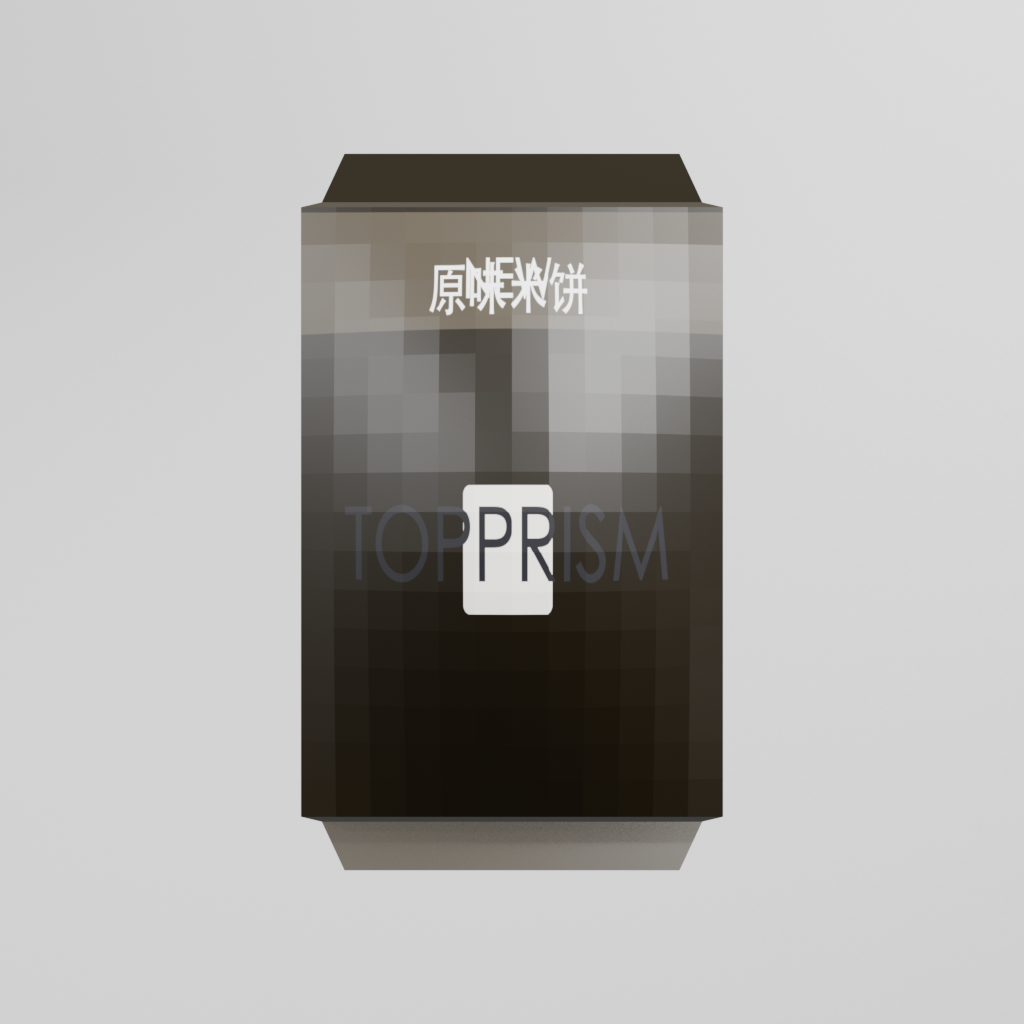
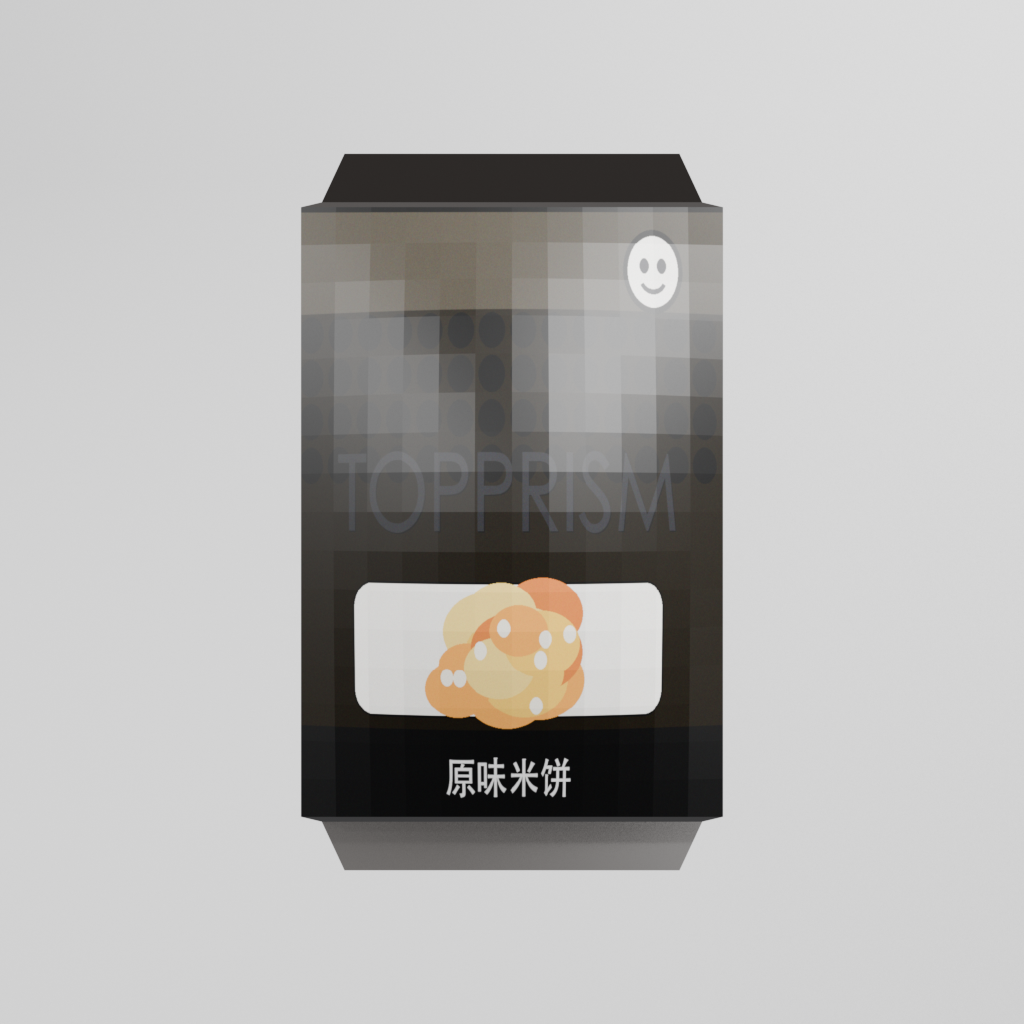
资产栈轮D4: 真枕形网格实例化负结果存证(连败两轮, 撤线回退v23b) + 印刷设计v2富化bag_print.py共享模块(多区版式/图案带/食品窗/吉祥物/错版/纸纹) → v25胜v23b 6.4->7.2 (+0.8) 新基线

Changed region(s): [[0.3438, 0.4688, 0.6562, 0.7812], [0.3438, 0.2188, 0.6875, 0.3438], [0.2812, 0.3125, 0.3125, 0.3438]]

diff --git a/scripts/bag_print.py b/scripts/bag_print.py
@@ -1,0 +1,92 @@
+#!/usr/bin/env python3
+"""bag_print: 软袋印刷设计 v2 (共享模块, make_pillow_bag 与 build_hxl_shelf 共用).
+
+P3 印刷保真 + P2 微观质感 (资产栈级, 2026-11-21 立项):
+- 多区排版: 顶品牌带/图案带/食品窗/风味横幅 — 参照真袋的 busy print 结构
+- 图案带: 斜纹/圆点网格 (种子确定性, 同设计同版)
+- 食品窗: 暖色椭圆簇 (薯片堆意象) + 高光点
+- 吉祥物圆徽 (右上) + 品牌字错版 1px (印刷套准缺陷, 微量)
+- 纸纹: 垂直渐变 + 亮度颗粒 (D4a 负结果教训: 纯平色场=CG 塑料感)
+"""
+import colorsys
+import math
+
+import numpy as np
+from PIL import Image, ImageDraw, ImageFont
+
+FONT = "/System/Library/Fonts/STHeiti Medium.ttc"
+
+
+def render_print(S: int, col, sub: str, seed: int = 0, label: str = "TOPPRISM") -> Image.Image:
+    """col: RGB 0-1 floats; 返回 S×S 印刷面."""
+    h, l, sv = colorsys.rgb_to_hsv(*[c for c in col[:3]])
+    sv = min(1.0, sv * 0.95)
+    r, g, b = colorsys.hsv_to_rgb(h, sv, l)
+    base = tuple(int(c * 255) for c in (r, g, b))
+    lite = tuple(min(255, int(c * 255 + 38)) for c in (r, g, b))
+    dark = tuple(max(0, int(c * 255 - 52)) for c in (r, g, b))
+    im = Image.new("RGB", (S, S), base)
+    d = ImageDraw.Draw(im)
+    rng = np.random.default_rng(seed)
+
+    # 1) 顶品牌带 (更亮)
+    d.rectangle([0, 0, S, S // 6], fill=lite)
+    # 2) 图案带 (上中, 斜纹或圆点 — 奇偶种子二选一)
+    band_y0, band_y1 = S // 6, int(S * 0.42)
+    if seed % 2 == 0:
+        step = S // 16
+        for x0 in range(-S, S * 2, step * 2):
+            d.polygon([(x0, band_y1), (x0 + step, band_y1), (x0 + step + S // 14, band_y0),
+                       (x0 + S // 14, band_y0)], fill=dark)
+    else:
+        step = S // 14
+        for yy in range(band_y0 + step // 2, band_y1, step):
+            for xx in range(step // 2, S, step):
+                rad = S // 34
+                d.ellipse([xx - rad, yy - rad, xx + rad, yy + rad], fill=dark)
+    # 食品窗背景 (中下, 更亮收口; 版式: 品牌字 0.37-0.57, 窗 0.60-0.82 不相撞)
+    win = [S * 0.14, int(S * 0.60), S * 0.86, int(S * 0.82)]
+    d.rounded_rectangle(win, radius=S // 22, fill=(250, 248, 242), outline=dark, width=max(2, S // 240))
+    # 3) 食品窗内容: 暖色椭圆簇 (薯片堆意象, 充满窗) + 高光点
+    cx, cy = (win[0] + win[2]) / 2, (win[1] + win[3]) / 2 + S * 0.01
+    warm = [(243, 196, 80), (238, 160, 66), (214, 120, 52), (245, 214, 120)]
+    for k in range(22):
+        ang = rng.random() * math.pi * 2
+        rad = rng.random() * S * 0.145
+        ex, ey = cx + math.cos(ang) * rad, cy + math.sin(ang) * rad * 0.62
+        ew = S * (0.06 + rng.random() * 0.05)
+        c = warm[k % len(warm)]
+        d.ellipse([ex - ew, ey - ew * 0.62, ex + ew, ey + ew * 0.62], fill=c)
+    for k in range(8):
+        hx = cx + (rng.random() - 0.5) * S * 0.3
+        hy = cy + (rng.random() - 0.5) * S * 0.16
+        hr = S * 0.014
+        d.ellipse([hx - hr, hy - hr, hx + hr, hy + hr], fill=(255, 250, 235))
+    # 4) 风味横幅 (底部深色带 + 品名小注)
+    d.rectangle([0, int(S * 0.84), S, S], fill=dark)
+    f2 = ImageFont.truetype(FONT, int(S * 0.075), index=0)
+    d.text((S // 2, int(S * 0.92)), sub, font=f2, fill=(255, 255, 255), anchor="mm")
+    # 5) 吉祥物圆徽 (右上)
+    mx, my, mr = S * 0.84, S * 0.10, S * 0.07
+    d.ellipse([mx - mr, my - mr, mx + mr, my + mr], fill=(250, 248, 242), outline=dark, width=S // 90)
+    d.ellipse([mx - mr * 0.45, my - mr * 0.3, mx - mr * 0.15, my + mr * 0.05], fill=(40, 40, 46))
+    d.ellipse([mx + mr * 0.15, my - mr * 0.3, mx + mr * 0.45, my + mr * 0.05], fill=(40, 40, 46))
+    d.arc([mx - mr * 0.45, my - mr * 0.1, mx + mr * 0.45, my + mr * 0.55],
+          20, 160, fill=(40, 40, 46), width=max(2, S // 110))
+    # 6) 品牌字 (宽度自适应) + 1px 错版 (套准缺陷)
+    f = ImageFont.truetype(FONT, int(S * 0.34), index=0)
+    size = int(S * 0.34)
+    while size > 40:
+        bb = d.textbbox((0, 0), label, font=f)
+        if bb[2] - bb[0] <= 0.82 * S:
+            break
+        size -= 16
+        f = ImageFont.truetype(FONT, size, index=0)
+    ty = int(S * 0.47)
+    d.text((S // 2 + S // 512, ty + S // 512), label, font=f, fill=dark, anchor="mm")
+    d.text((S // 2, ty), label, font=f, fill=(30, 30, 34), anchor="mm")
+    # 7) 纸纹: 垂直渐变 + 亮度颗粒 (D4a: 纯平色场=塑料感根因)
+    arr = np.asarray(im).astype(np.float32)
+    arr *= np.linspace(1.0, 0.9, S)[:, None, None]
+    arr += np.random.default_rng(seed + 100).normal(0, 4.5, arr.shape)
+    return Image.fromarray(np.clip(arr, 0, 255).astype(np.uint8))

diff --git a/scripts/make_pillow_bag.py b/scripts/make_pillow_bag.py
@@ -92,34 +92,11 @@ def build_mesh():
 
 
 def make_atlas(path: Path):
-    from PIL import Image, ImageDraw, ImageFont
-    S = 1024
-    import colorsys
-    _h, _l, _sv = colorsys.rgb_to_hsv(*[c for c in COL[:3]])
-    _sv = min(1.0, _sv * 1.2)
-    _r, _g, _b = colorsys.hsv_to_rgb(_h, _sv, _l)
-    _col = (_r, _g, _b, 1.0)  # 局部饱和增强色 (不遮蔽全局 COL)
-    im = Image.new("RGB", (S, S), tuple(int(c * 255) for c in _col[:3]))
-    d = ImageDraw.Draw(im)
-    # 色块主导 (对账: 排面远观读色系): 白窗收窄至 30% 居中, 顶带亮色+品字
-    d.rectangle([0, 0, S, S // 5], fill=tuple(min(255, int(c * 255 + 45)) for c in _col[:3]))
-    d.rounded_rectangle([S * 4 // 10, S * 9 // 20, S * 6 // 10, S * 13 // 20], radius=14, fill=(250, 248, 242))
-    try:
-        f2 = ImageFont.truetype("/System/Library/Fonts/STHeiti Medium.ttc", 96, index=0)
-        f = ImageFont.truetype("/System/Library/Fonts/STHeiti Medium.ttc", 340, index=0)
-        _size = 340  # 宽度自适应: 全词入画 (340 会把 TOPPRISM 裁成 PPRIS) 碎片)
-        while _size > 40:
-            _bb = d.textbbox((0, 0), LABEL, font=f)
-            if _bb[2] - _bb[0] <= 0.82 * S:
-                break
-            _size -= 16
-            f = ImageFont.truetype("/System/Library/Fonts/STHeiti Medium.ttc", _size, index=0)
-    except Exception:
-        f = f2 = ImageFont.load_default()
-    d.text((S // 2, S * 0.55), LABEL, font=f, fill=(30, 30, 34), anchor="mm")
-    d.text((S // 2, S * 0.13), SUB, font=f2, fill=(255, 255, 255), anchor="mm")
-    d.text((S // 2, S * 0.12), "NEW", font=f2, fill=(255, 255, 255), anchor="mm")
-    im.save(path)
+    """印刷面: bag_print.render_print v2 (多区排版/图案带/食品窗/吉祥物/纸纹)."""
+    import sys as _sys
+    _sys.path.insert(0, str(Path(__file__).parent))
+    from bag_print import render_print
+    render_print(1024, COL[:3], SUB, seed=hash(COL) % 97, label=LABEL).save(path)
 
 
 def make_material(obj, atlas: Path):

diff --git a/docs/reviews/shelf_convergence.md b/docs/reviews/shelf_convergence.md
@@ -37,3 +37,15 @@ D3 系列 GPT 两次建议与参照真值冲突, 均按「从参照不从 review
 - "打破颜色水平分带" — 参照即每层色系块（理货标准态）
 - "商品重复性过高" — 参照族内同设计重复即真实理货语言
 采纳项均有像素/几何证据（镜像字/接触/密度/厚度）。
+
+## 资产栈立项轮 (2026-11-21 续): D4 系列
+
+| 轮 | 对局 | 结果 | 判决 |
+|---|---|---|---|
+| D4a | v23b vs v24(真枕形网格) | 7.3 → 6.5 **反输** | 真 3D 几何+纯平色场 atlas=CG 塑料感; 烘焙柔和感(render-crop)在 GPT 判据下压过几何真值 |
+| D4b | v23b vs v24b(逐袋色调+渐变+颗粒) | 6.5 → 5.8 **再输** | 材质三修不足以翻盘, 方向性负结果确认 |
+| D4c | v23b vs v25(印刷设计 v2 富化 crop 纹理) | 6.4 → **7.2 胜 (+0.8)** | busy print 多区版式(图案带/食品窗/吉祥物/错版/纸纹)直接喂给胜出的 crop 纹理路径 |
+
+**裁决与转向**: 真枕形网格实例化记为负结果存证(执行质量不足以兑现几何真值, 撤线); 资产栈火力转投印刷纹理富化(bag_print.py 共享模块), 喂给 v23b 基线 → v25 成为新基线。
+
+剩余 Top 问题 (GPT 末轮): 中文标签生成痕迹 / 材质统一重复 / 光照 3D 感 — 下一轮资产栈迭代项。
